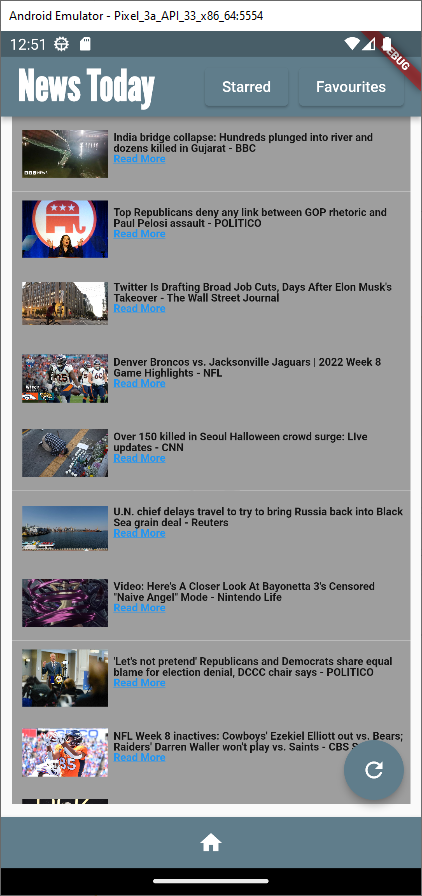
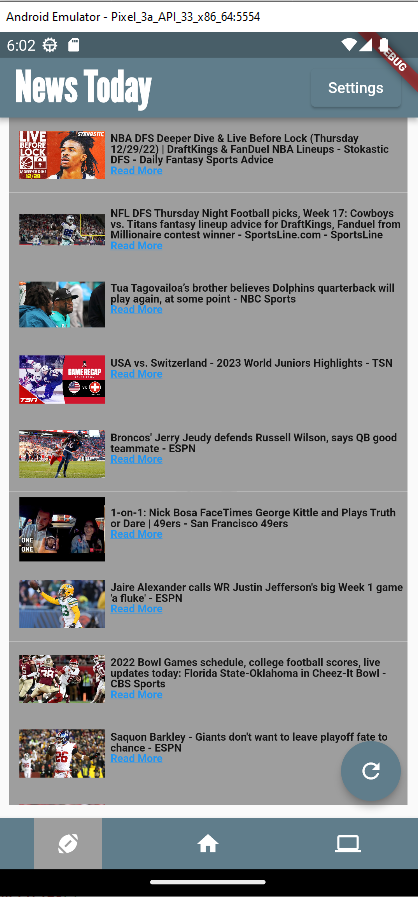
Add code for additonal news categories

diff --git a/lib/main.dart b/lib/main.dart
@@ -67,10 +67,13 @@ class MyHomePage extends StatefulWidget {
 class _MyHomePageState extends State<MyHomePage> {
   bool isLoading = false;
   List<NewsItem> articles = [];
+  //List<NewsItem> sportsArticles = [];
+  //List<NewsItem> techArticles = [];
+  String selected = "general";
 
   Widget get innerWidget => isLoading
       ? CircularProgressIndicator()
-      : Expanded(child: NewsList(articles: articles));
+      : _chooseCategory();
 
   void initState() {
     super.initState();
@@ -83,6 +86,28 @@ class _MyHomePageState extends State<MyHomePage> {
   void _getArticles() async {
     var returnedNews = await widget.controller.fetchArticles();
     setState(() => articles = returnedNews);
+  }
+
+  void _getArticlesCategory() async {
+    var returnedNews;
+    if (selected == "sports") {
+      returnedNews = await widget.controller.fetchCategoryArticles("sports");
+    } else {
+      returnedNews = await widget.controller.fetchCategoryArticles("technology");
+    }
+
+    setState(() => articles = returnedNews);
+  }
+
+  Widget _chooseCategory() {
+    // if (selected == "sports") {
+    //   return Expanded(child: NewsList(articles: sportsArticles));
+    // }
+    // else if (selected == "technology") {
+    //   return Expanded(child: NewsList(articles: techArticles));
+    // } else {
+      return Expanded(child: NewsList(articles: articles));
+    //}
   }
 
   @override
@@ -146,7 +171,7 @@ class _MyHomePageState extends State<MyHomePage> {
         ],
       ),
       floatingActionButton: FloatingActionButton(
-        onPressed: _getArticles,
+        onPressed: (selected == "sports" ||  selected == "technology") ? _getArticlesCategory : _getArticles,
         tooltip: 'Refresh',
         child: const Icon(Icons.refresh),
       ),
@@ -156,9 +181,11 @@ class _MyHomePageState extends State<MyHomePage> {
             mainAxisAlignment: MainAxisAlignment.spaceAround,
             children: <Widget>[
               Container(
+                color: selected == "sports" ? Colors.grey : null,
                   child: TextButton(
-                onPressed: () => Navigator.popUntil(
-                    context, ModalRoute.withName(Routes.homePage)),
+                onPressed: () => setState(() {selected = "sports";
+                                              _getArticlesCategory();
+                }),
                 child: Icon(
                   Icons.sports_football,
                   color: Colors.white,
@@ -166,9 +193,11 @@ class _MyHomePageState extends State<MyHomePage> {
                 ),
               )),
               Container(
+                color: selected == "general" ? Colors.grey : null,
                   child: TextButton(
-                onPressed: () => Navigator.popUntil(
-                    context, ModalRoute.withName(Routes.homePage)),
+                onPressed: () => setState(() {selected = "general";
+                                              _getArticles();
+                }),
                 child: Icon(
                   Icons.home,
                   color: Colors.white,
@@ -176,9 +205,11 @@ class _MyHomePageState extends State<MyHomePage> {
                 ),
               )),
               Container(
+                color: selected == "technology" ? Colors.grey : null,
                   child: TextButton(
-                onPressed: () => Navigator.popUntil(
-                    context, ModalRoute.withName(Routes.homePage)),
+                onPressed: () => setState(() {selected = "technology";
+                                              _getArticlesCategory();
+                }),
                 child: Icon(
                   Icons.computer,
                   color: Colors.white,

diff --git a/lib/widget/settings_page.dart b/lib/widget/settings_page.dart
@@ -60,48 +60,48 @@ class _SettingPageState extends State<SettingPage> {
           ),
         ],
       ),
-      floatingActionButton: FloatingActionButton(
-        onPressed: () => {},
-        tooltip: 'Refresh',
-        child: const Icon(Icons.refresh),
-      ),
-      bottomNavigationBar: BottomAppBar(
-          color: Colors.blueGrey,
-          child: Row(
-            mainAxisAlignment: MainAxisAlignment.spaceAround,
-            children: <Widget>[
-              Container(
-                  child: TextButton(
-                onPressed: () => Navigator.popUntil(
-                    context, ModalRoute.withName(Routes.homePage)),
-                child: Icon(
-                  Icons.sports_football,
-                  color: Colors.white,
-                  size: 24.0,
-                ),
-              )),
-              Container(
-                  child: TextButton(
-                onPressed: () => Navigator.popUntil(
-                    context, ModalRoute.withName(Routes.homePage)),
-                child: Icon(
-                  Icons.home,
-                  color: Colors.white,
-                  size: 24.0,
-                ),
-              )),
-              Container(
-                  child: TextButton(
-                onPressed: () => Navigator.popUntil(
-                    context, ModalRoute.withName(Routes.homePage)),
-                child: Icon(
-                  Icons.computer,
-                  color: Colors.white,
-                  size: 24.0,
-                ),
-              )),
-            ],
-          )),
+      // floatingActionButton: FloatingActionButton(
+      //   onPressed: () => {},
+      //   tooltip: 'Refresh',
+      //   child: const Icon(Icons.refresh),
+      // ),
+      // bottomNavigationBar: BottomAppBar(
+      //     color: Colors.blueGrey,
+      //     child: Row(
+      //       mainAxisAlignment: MainAxisAlignment.spaceAround,
+      //       children: <Widget>[
+      //         Container(
+      //             child: TextButton(
+      //           onPressed: () => Navigator.popUntil(
+      //               context, ModalRoute.withName(Routes.homePage)),
+      //           child: Icon(
+      //             Icons.sports_football,
+      //             color: Colors.white,
+      //             size: 24.0,
+      //           ),
+      //         )),
+      //         Container(
+      //             child: TextButton(
+      //           onPressed: () => Navigator.popUntil(
+      //               context, ModalRoute.withName(Routes.homePage)),
+      //           child: Icon(
+      //             Icons.home,
+      //             color: Colors.white,
+      //             size: 24.0,
+      //           ),
+      //         )),
+      //         Container(
+      //             child: TextButton(
+      //           onPressed: () => Navigator.popUntil(
+      //               context, ModalRoute.withName(Routes.homePage)),
+      //           child: Icon(
+      //             Icons.computer,
+      //             color: Colors.white,
+      //             size: 24.0,
+      //           ),
+      //         )),
+      //       ],
+      //     )),
     );
   }
 }

diff --git a/lib/services/services.dart b/lib/services/services.dart
@@ -25,4 +25,26 @@ class HttpServices {
       throw Exception('failed to get news from source');
     }
   }
+
+    Future<List<NewsItem>> getNewsItemsCategory(String category) async {
+    var url = Uri.https('newsapi.org', '/v2/top-headlines',
+        {'country': 'us', 'category': category, 'apiKey': 'c6af5a55ce744353bf9744ad09314724'});
+    print(url);
+    var response = await http.get(url);
+    if (response.statusCode == 200) {
+      var all = jsonDecode(response.body);
+      //var numOfArticles = all["totalResults"];
+      var allArticles = all["articles"];
+      //print(numOfArticles);
+      List<NewsItem> newsItems = [];
+      for (var article in allArticles) {
+        print(article);
+        newsItems.add(NewsItem.fromJson(article));
+      }
+      return newsItems;
+    } else {
+      print('Response status: ${response.statusCode}');
+      throw Exception('failed to get news from source');
+    }
+  }
 }

diff --git a/lib/controllers/articles.dart b/lib/controllers/articles.dart
@@ -18,4 +18,11 @@ class ArticleController {
     onSyncController.add(false);
     return articles;
   }
+
+    Future<List<NewsItem>> fetchCategoryArticles(String category) async {
+    onSyncController.add(true);
+    articles = await services.getNewsItemsCategory(category);
+    onSyncController.add(false);
+    return articles;
+  }
 }
